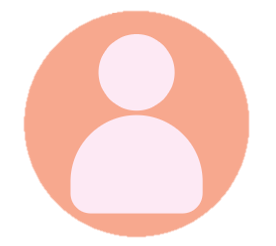
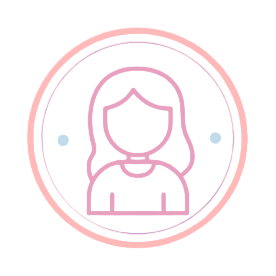
combios de la eli

diff --git a/src/theme/GlobalTheme.tsx b/src/theme/GlobalTheme.tsx
@@ -22,8 +22,8 @@ export const GlobalStyles = StyleSheet.create({
         alignSelf: 'center'
     },
     logoContainer: {
-        height: '8%',
-        backgroundColor: '#F7A88E',
+        height: 60,
+        backgroundColor: '#BA90C6',
         justifyContent: 'center'
     },
     iconLocation: {
@@ -88,9 +88,9 @@ export const GlobalStyles = StyleSheet.create({
         alignItems: 'center',
     },
     buttonStyleIOS: {
-        backgroundColor: '#F7A88E',
+        backgroundColor: '#C0DBEA',
         borderWidth: 2,
-        borderColor: '#F7A88E',
+        borderColor: '#BA90C6',
         paddingHorizontal: 10,
         paddingVertical: 5,
         borderRadius: 20,
@@ -105,9 +105,9 @@ export const GlobalStyles = StyleSheet.create({
         elevation: 4,
     },
     buttonStyleAndroid: {
-        backgroundColor: '#F7A88E',
+        backgroundColor: '#C0DBEA',
         borderWidth: 2,
-        borderColor: '#F7A88E',
+        borderColor: '#BA90C6',
         paddingHorizontal: 10,
         paddingVertical: 5,
         borderRadius: 10,
@@ -121,6 +121,7 @@ export const GlobalStyles = StyleSheet.create({
 
         elevation: 4,
     },
+    
     buttonText: {
         fontSize: 20,
         color: 'white',

diff --git a/src/theme/MenuTheme.tsx b/src/theme/MenuTheme.tsx
@@ -1,6 +1,7 @@
 import { StyleSheet } from 'react-native';
 
 export const MenuStyles = StyleSheet.create({
+    
     avatarContainer: {
         alignItems: 'center',
         marginTop: 20
@@ -11,12 +12,15 @@ export const MenuStyles = StyleSheet.create({
     },
     menuContainer: {
         marginVertical: 30,
-        marginHorizontal: 30
+        marginHorizontal: 30,
+    
     },
     menuText: {
-        fontSize: 15
+        fontSize: 15,
+        color: '#E8A0BF'
     },
     menuButton:{
+        backgroundColor: '#FDF4F5',
         marginVertical: 15,
         flexDirection: 'row',
         alignItems: 'center'

diff --git a/codigo c/codigo.c b/codigo c/codigo.c
@@ -1,0 +1,75 @@
+#include <stdio.h>
+#include <string.h>
+#include "pico/stdlib.h"
+#include "hardware/uart.h"
+#include "hardware/timer.h"
+
+// Configuración del módulo GSM
+#define GSM_UART_ID uart1
+#define GSM_UART_BAUD_RATE 9600
+#define GSM_TX_PIN 0
+#define GSM_RX_PIN 1
+
+// Configuración del módulo GPS
+#define GPS_UART_ID uart0
+#define GPS_UART_BAUD_RATE 9600
+#define GPS_TX_PIN 2
+#define GPS_RX_PIN 3
+
+// Intervalo de envío de SMS en segundos
+#define SMS_INTERVAL 300 // 5 minutos
+
+// Función para enviar comandos AT al módulo GSM
+void sendATCommand(const char *command, char *response, int response_size) {
+    uart_puts(GSM_UART_ID, command);
+    uart_puts(GSM_UART_ID, "\r\n");
+    sleep_ms(500);
+    uart_gets(GSM_UART_ID, response, response_size);
+}
+
+int main() {
+    stdio_init_all();
+
+    // Inicialización del UART para el módulo GSM
+    uart_init(GSM_UART_ID, GSM_UART_BAUD_RATE);
+    gpio_set_function(GSM_TX_PIN, GPIO_FUNC_UART);
+    gpio_set_function(GSM_RX_PIN, GPIO_FUNC_UART);
+
+    // Inicialización del UART para el módulo GPS
+    uart_init(GPS_UART_ID, GPS_UART_BAUD_RATE);
+    gpio_set_function(GPS_TX_PIN, GPIO_FUNC_UART);
+    gpio_set_function(GPS_RX_PIN, GPIO_FUNC_UART);
+
+    char gsm_response[128];
+    uint64_t last_sms_time = 0;
+
+    // Configuración del módulo GSM
+    sendATCommand("AT", gsm_response, sizeof(gsm_response));
+    sendATCommand("AT+CMGF=1", gsm_response, sizeof(gsm_response)); // Modo de texto para SMS
+
+    // Bucle principal
+    while (1) {
+        char gps_data[128];
+
+        // Leer datos del módulo GPS
+        uart_gets(GPS_UART_ID, gps_data, sizeof(gps_data));
+
+        // Analizar los datos del GPS y obtener la ubicación actual
+        // Aquí deberías implementar la lógica específica para tu módulo GPS
+
+        // Verificar si ha pasado el tiempo suficiente desde el último envío de SMS
+        uint64_t current_time = time_us_64();
+        if ((current_time - last_sms_time) >= (SMS_INTERVAL * 1000000)) {
+            // Enviar la ubicación actual a través de un mensaje SMS
+            char sms_message[256];
+            sprintf(sms_message, "Mi ubicacion actual es: latitud=%f, longitud=%f", latitud, longitud);
+            sendATCommand("AT+CMGS=\"+1234567890\"", gsm_response, sizeof(gsm_response)); // Reemplaza con el número de teléfono destino
+            uart_puts(GSM_UART_ID, sms_message);
+            uart_putc(GSM_UART_ID, 0x1A);
+            sleep_ms(500);
+            uart_gets(GSM_UART_ID, gsm_response, sizeof(gsm_response));
+    }
+
+    return 0;
+}
+}
